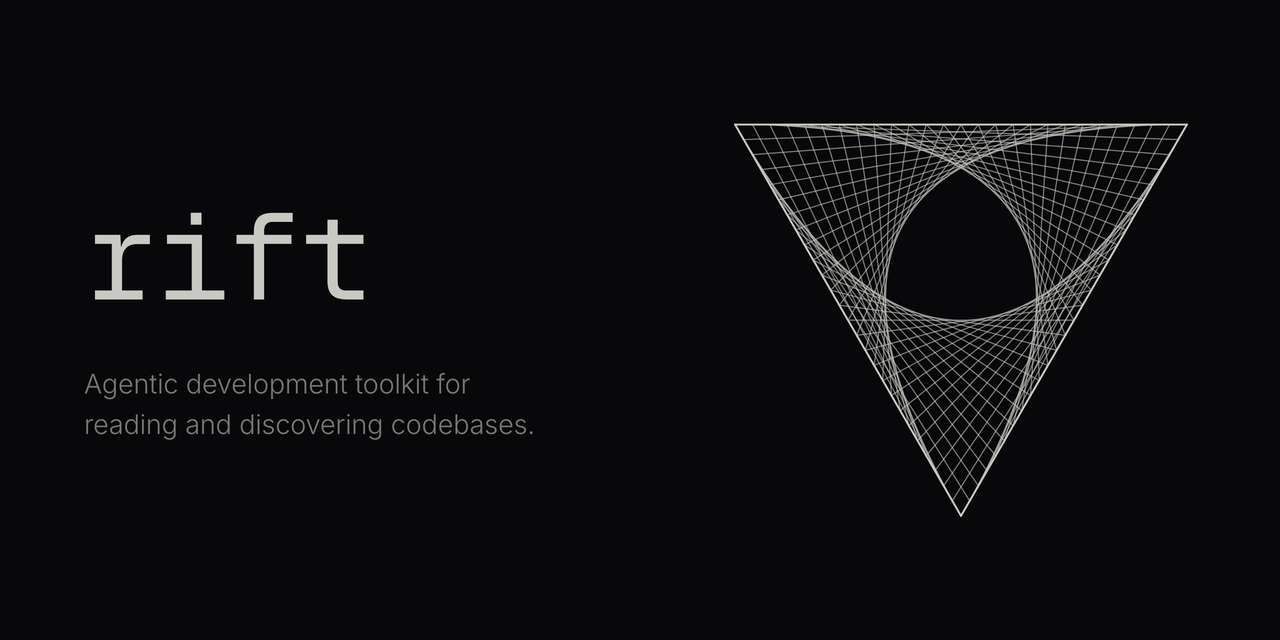
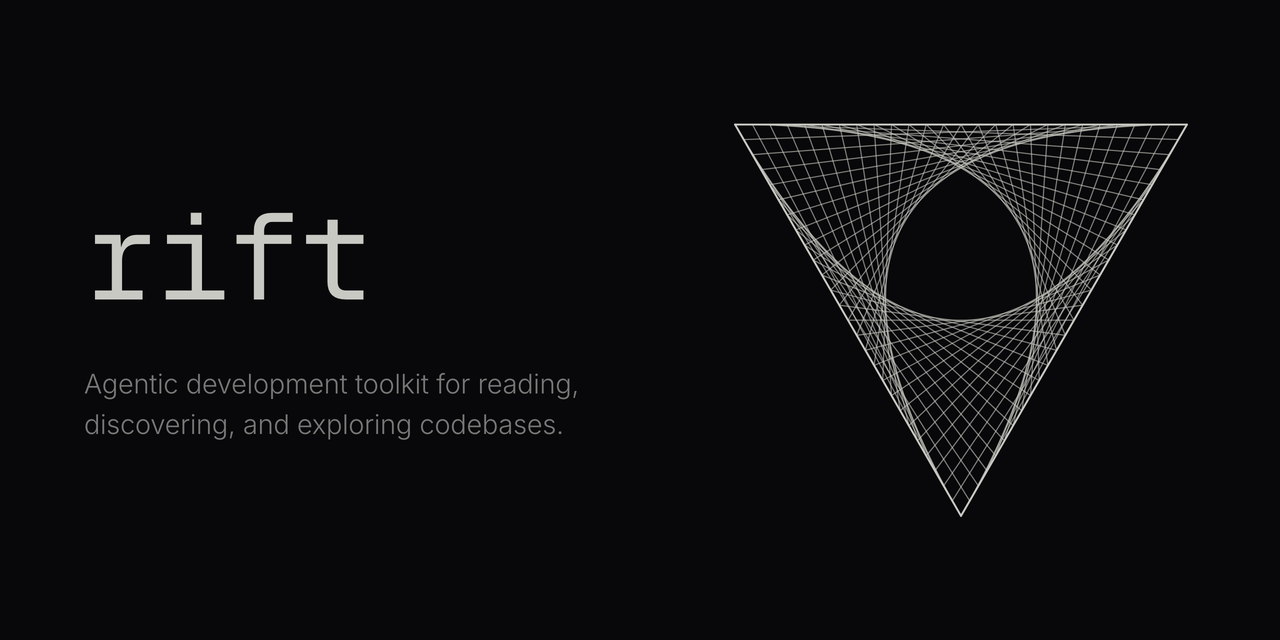
📝 docs: open product metadata with exploring codebases

Changed region(s): [[0.0625, 0.6562, 0.4375, 0.6875], [0.375, 0.5938, 0.4688, 0.625]]

diff --git a/docs/src/app/layout.tsx b/docs/src/app/layout.tsx
@@ -8,7 +8,8 @@ import { RootProvider } from "fumadocs-ui/provider/next";
 import type { Metadata } from "next";
 
 const TITLE = "rift - agentic development toolkit";
-const DESCRIPTION = "Agentic development toolkit for reading and discovering codebases.";
+const DESCRIPTION =
+  "Agentic development toolkit for reading, discovering, and exploring codebases.";
 
 // Next does not apply next.config `basePath` to metadata URLs, so every one of
 // them has to be prefixed by hand or it 404s under /rift.

diff --git a/crates/rift-mcp/src/skill.rs b/crates/rift-mcp/src/skill.rs
@@ -27,7 +27,7 @@ pub const SKILL_DESCRIPTION: &str = "Use when finding or reading code in a works
     identity, and syntax inspection.";
 /// The plugin manifest's `description`: the canonical product sentence.
 const PLUGIN_DESCRIPTION: &str =
-    "Rift is an agentic development toolkit for reading and discovering codebases.";
+    "Rift is an agentic development toolkit for reading, discovering, and exploring codebases.";
 /// POSIX installer command, verbatim from the docs landing page.
 const INSTALL_COMMAND_POSIX: &str =
     "curl --proto '=https' --tlsv1.2 -fsSL https://volar.sh/rift/install.sh | bash";
